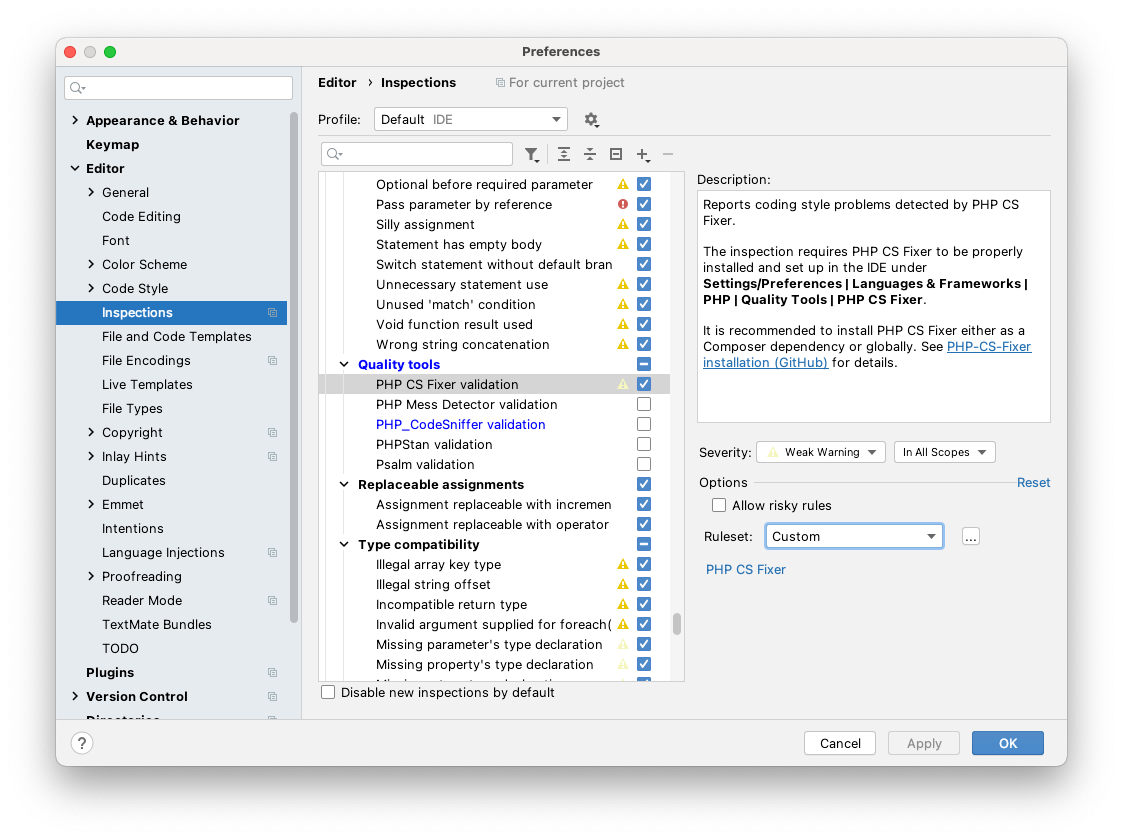
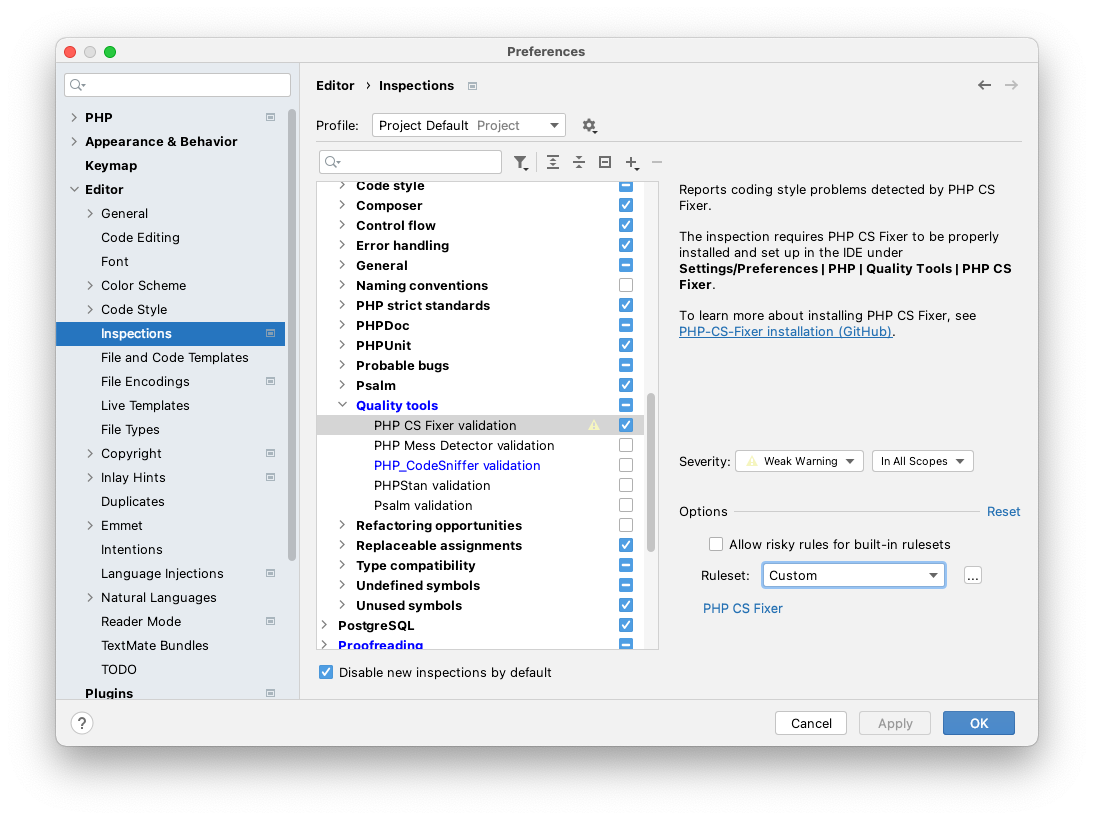
Update docs

diff --git a/.php-cs-fixer.dist.php b/.php-cs-fixer.dist.php
@@ -1,6 +1,6 @@
 <?php
 
-// Ladies and gentleman fasten your seatbelts.
+// Ladies and gentlemen fasten your seatbelts.
 // We're going deep.
 
 return romanzipp\Fixer\Config::make()

diff --git a/README.md b/README.md
@@ -61,24 +61,29 @@ return romanzipp\Fixer\Config::make()
 
 ## PHPStorm Configuration
 
+### Prequisites
+
+You will need to install PHP CS Fixer globally on your system because PHPStorm [does not allow](https://youtrack.jetbrains.com/issue/WI-56557) you to set the php-cs-fixer executable on a per-project basis or relative to the project path.
+
+```shell
+composer global require friendsofphp/php-cs-fixer
+```
 ### 1. Enable Inspection
 
 ![](images/inspection.png)
 
-### 2. Select ruleset `[...]`
+### 2. Select ruleset .php-cs-fixer.dist.php file `[...]`
 
 ![](images/ruleset.png)
 
-### 3. Navigate to Quality Tools
+Unfortunately you have to repeat this process for every project since [there is a bug in PHPStorm](https://youtrack.jetbrains.com/issue/WI-56557) which prevents users from using relative paths for the `.php-cs-fixer.dist.php` configuration or executable file.
 
-![](images/tools.png)
+Another theoretical approach to this issue is to create a unified ruleset file in your users .composer folder. This has the downside on only having one single ruleset.
+
+### 3. Navigate to Quality Tools by clicking on the "PHP CS Fixer" link
+
+![](images/navigate.png)
 
 ### 4. Select PHP-CS-Fixer executable
 
-You will need to select the `php-cs-fixer` file from the `vendor/bin` directory relative to your project folder.
-
-![](images/bin-path.png)
-
-Unfortunately you have to repeat the whole process for every project since [there is a bug in PHPStorm](https://youtrack.jetbrains.com/issue/WI-56557) which prevents users from using relative paths for the `.php_cs.dist` configuration or executable file.
-
-Another theoretical approach to this issue is installing PHP-CS-Fixer and this package globally via `composer global require ...` but I haven't tried it yet.
+![](images/executable.png)
